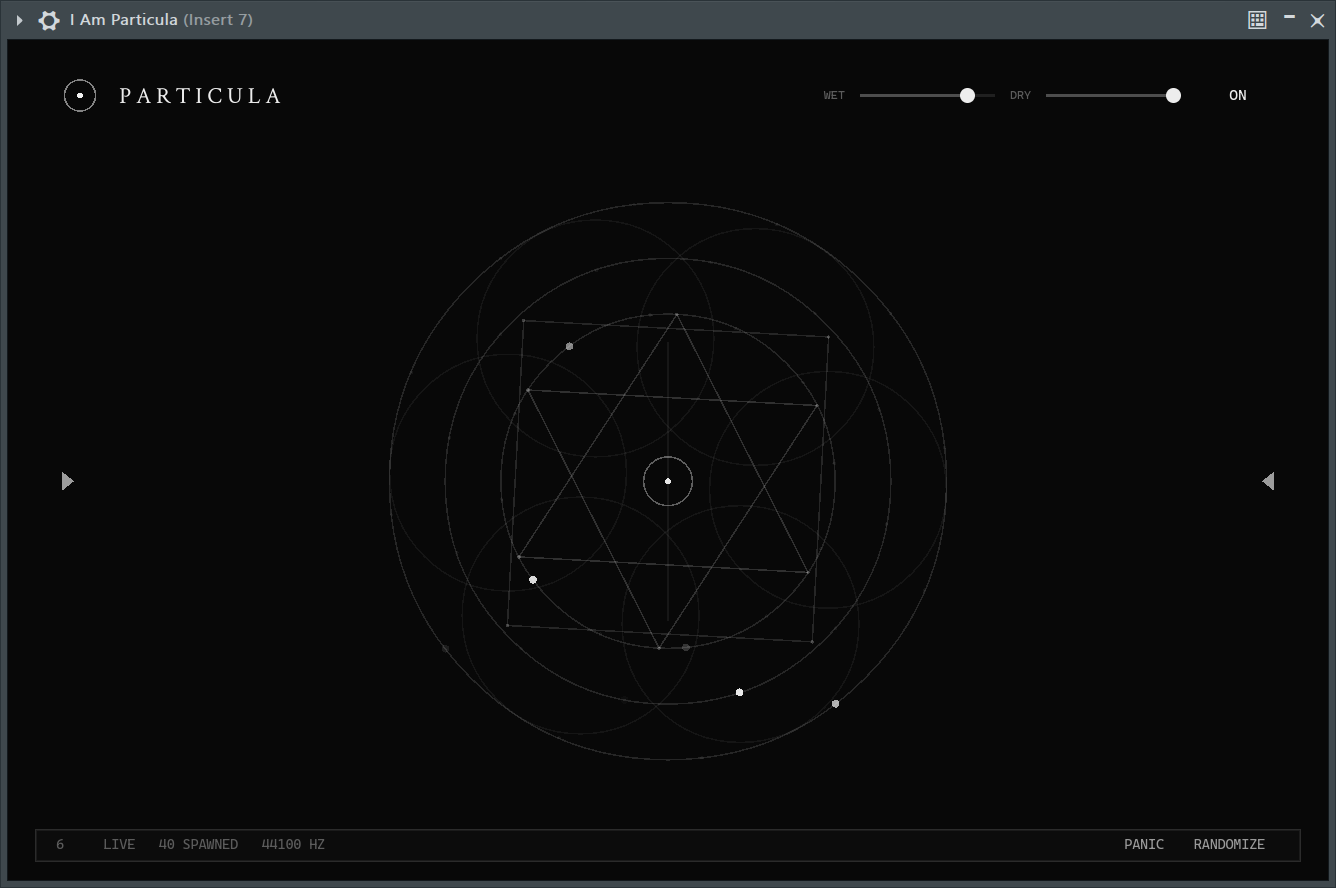
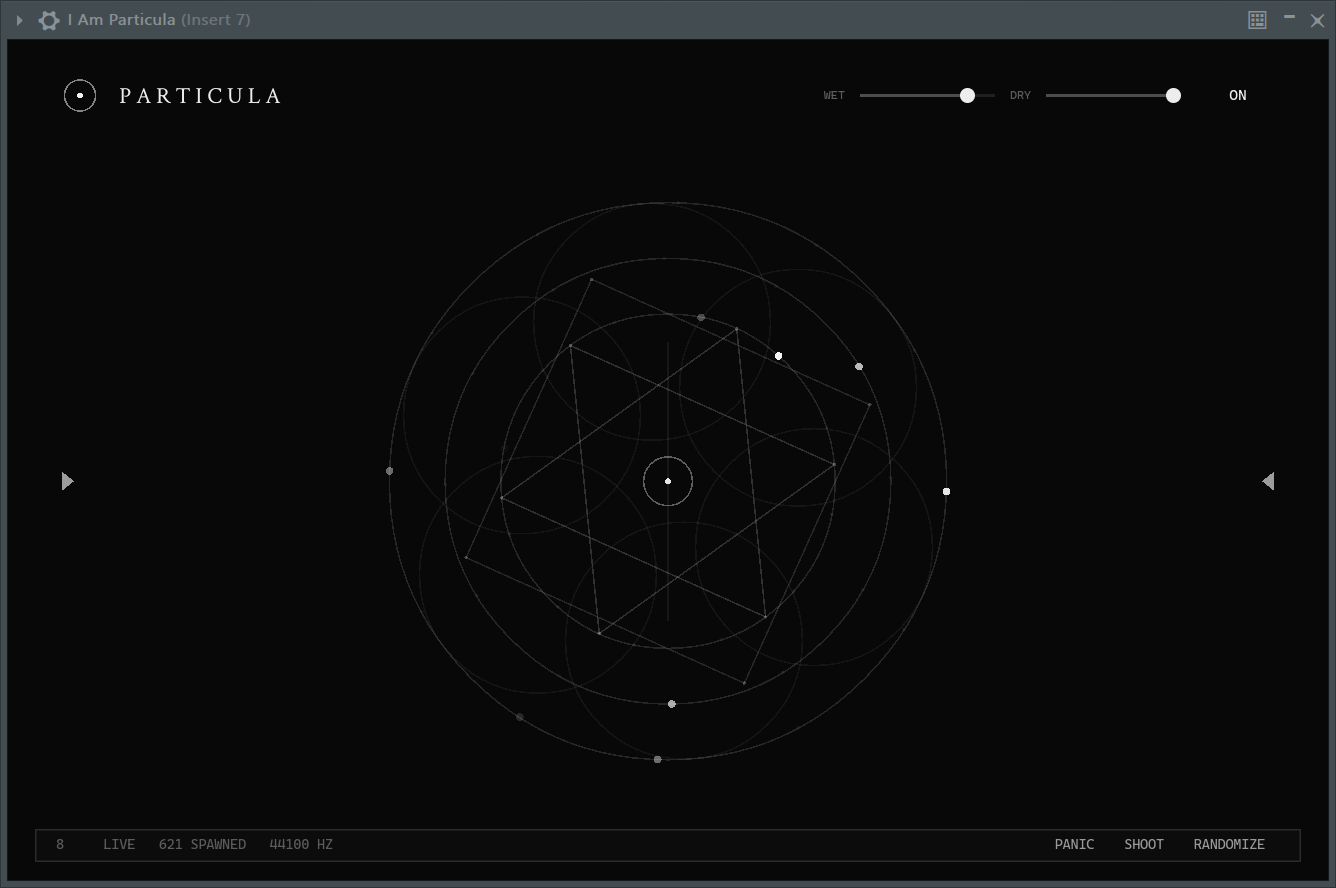
Update README

diff --git a/README.md b/README.md
@@ -14,6 +14,10 @@
 
 更详细的可以去看 AI 写的 [Architecture.md](Architecture.md)。
 
+## 安装
+
+编译好的应该在 Release 里面有，把它放到 C:\Program Files\Common Files\CLAP 然后打开你的 daw 扫一扫就能看到了.
+
 ## 编译
 
 为了开发方便，在 `Cargo.toml` 里面 `i_am_dsp` 相关的依赖都是填的路径，所以在编译的时候需要先手动改一下.
